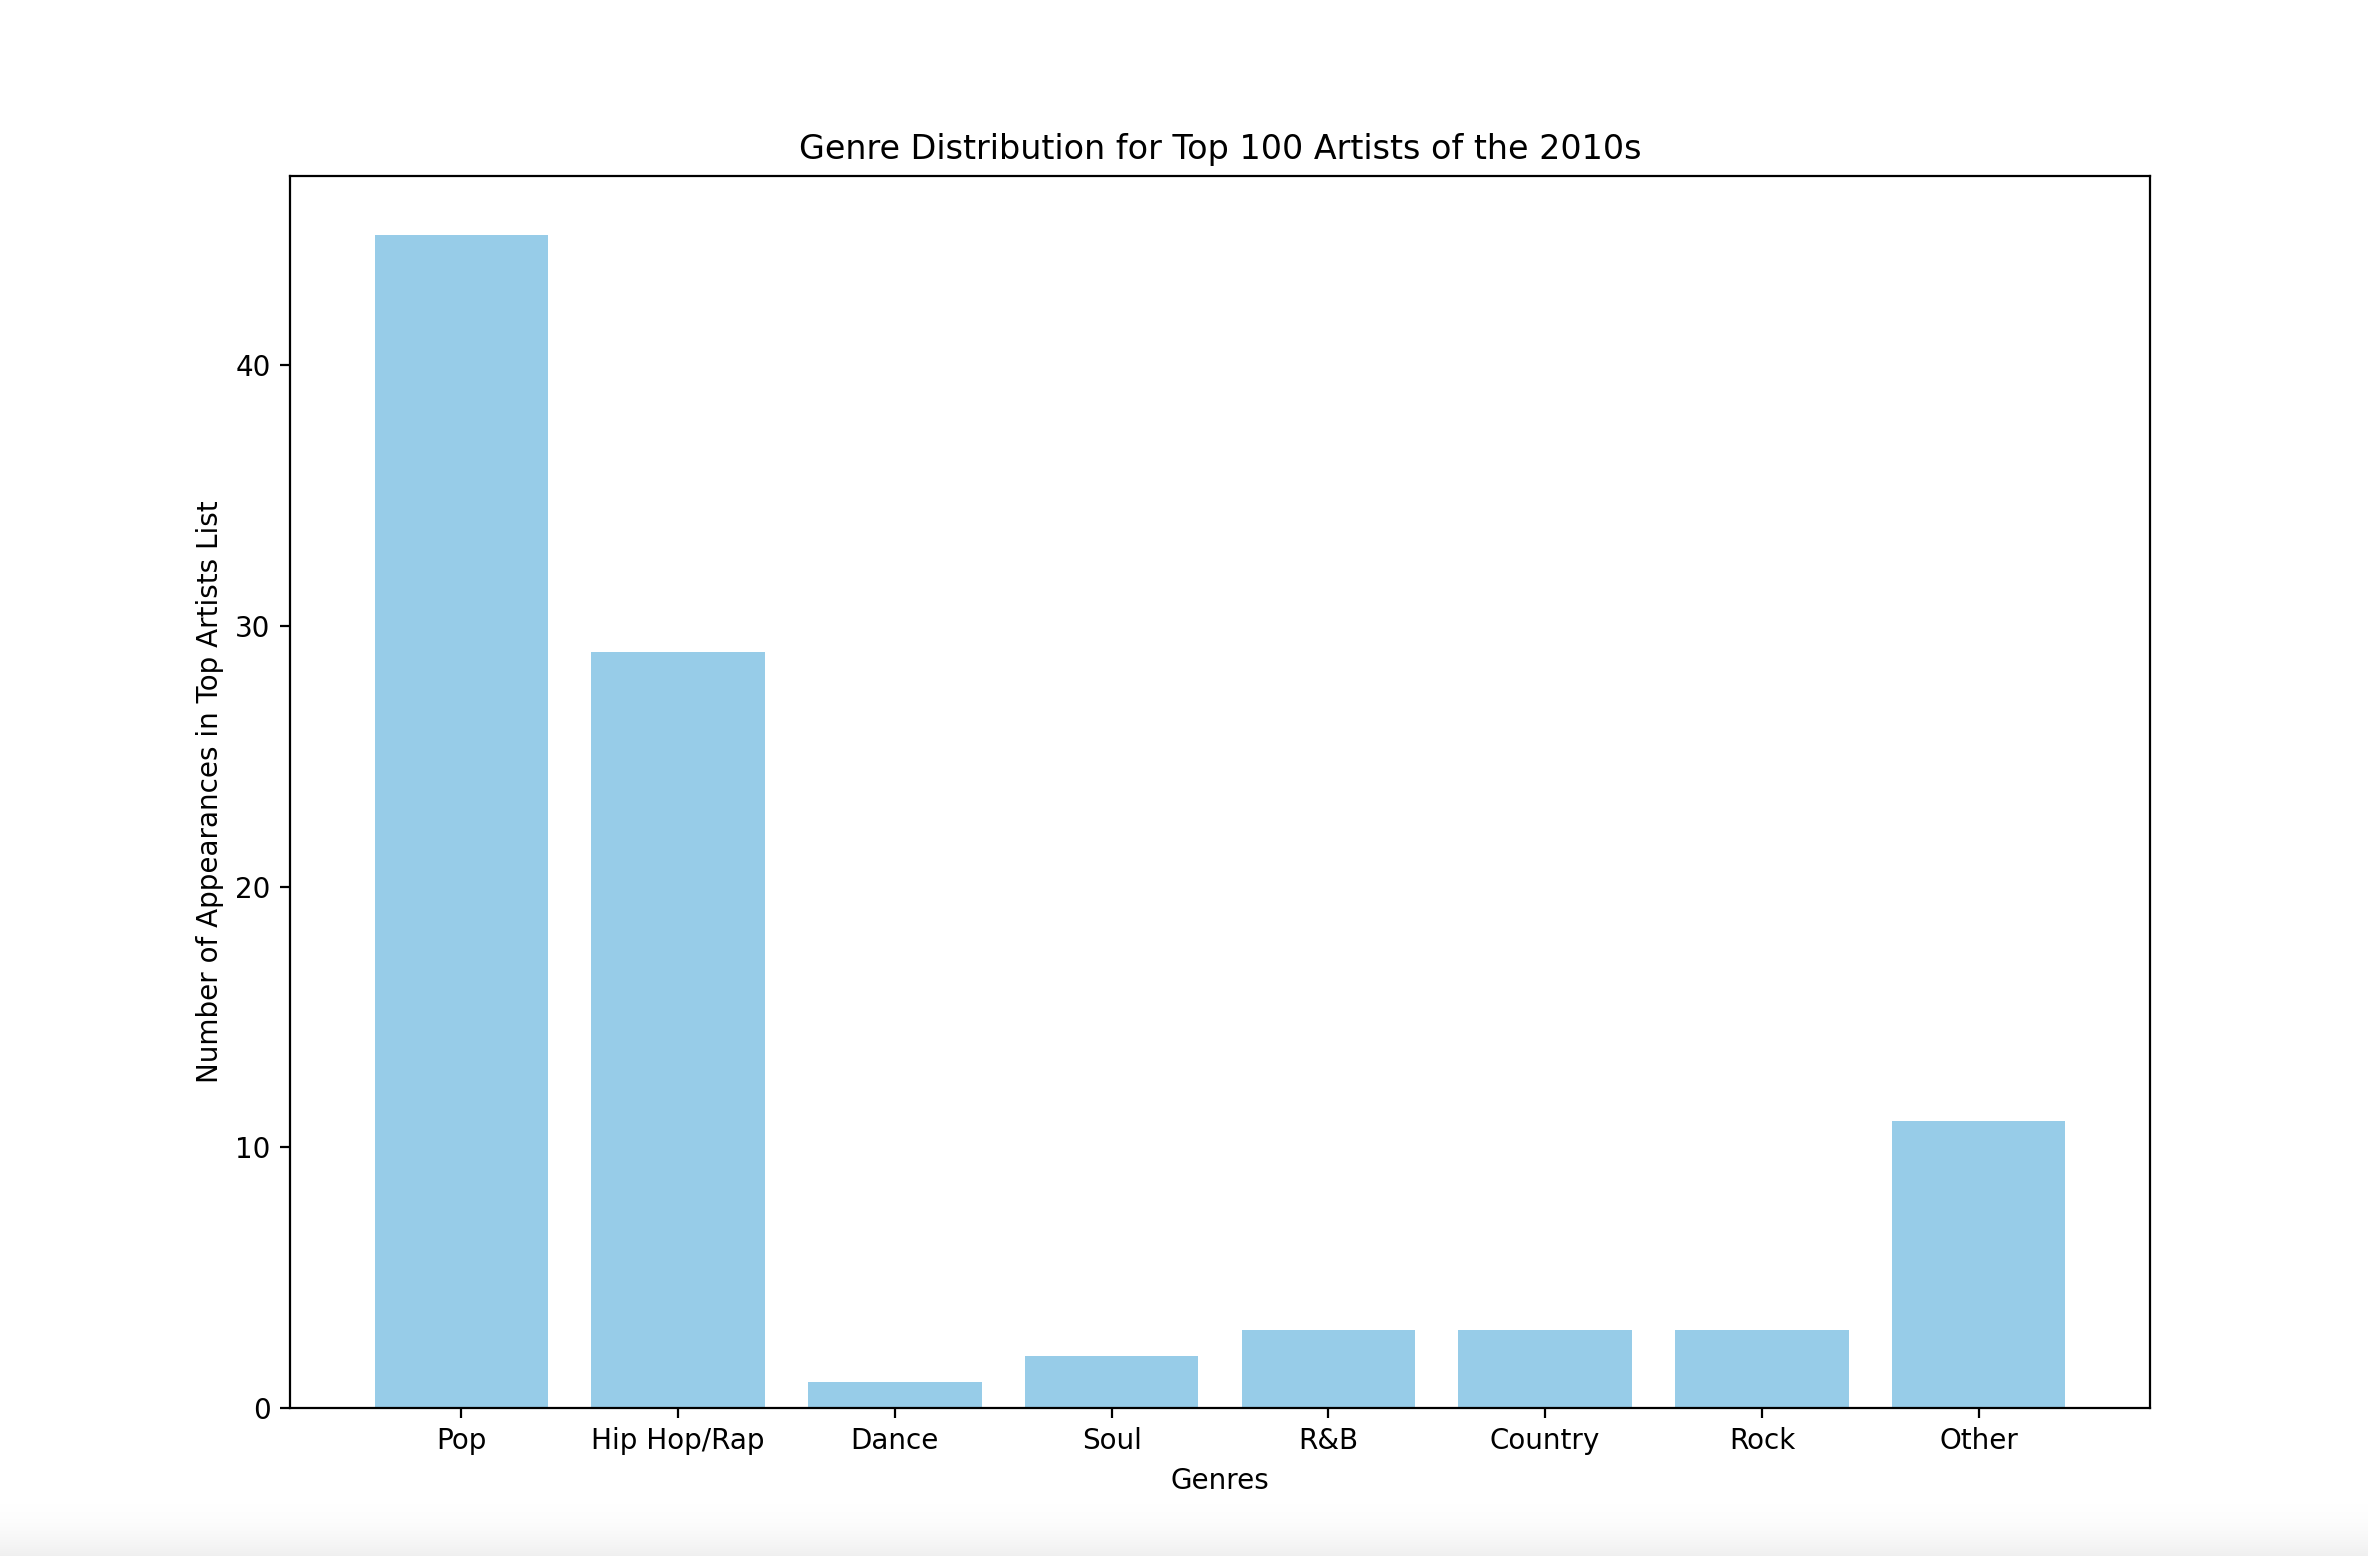
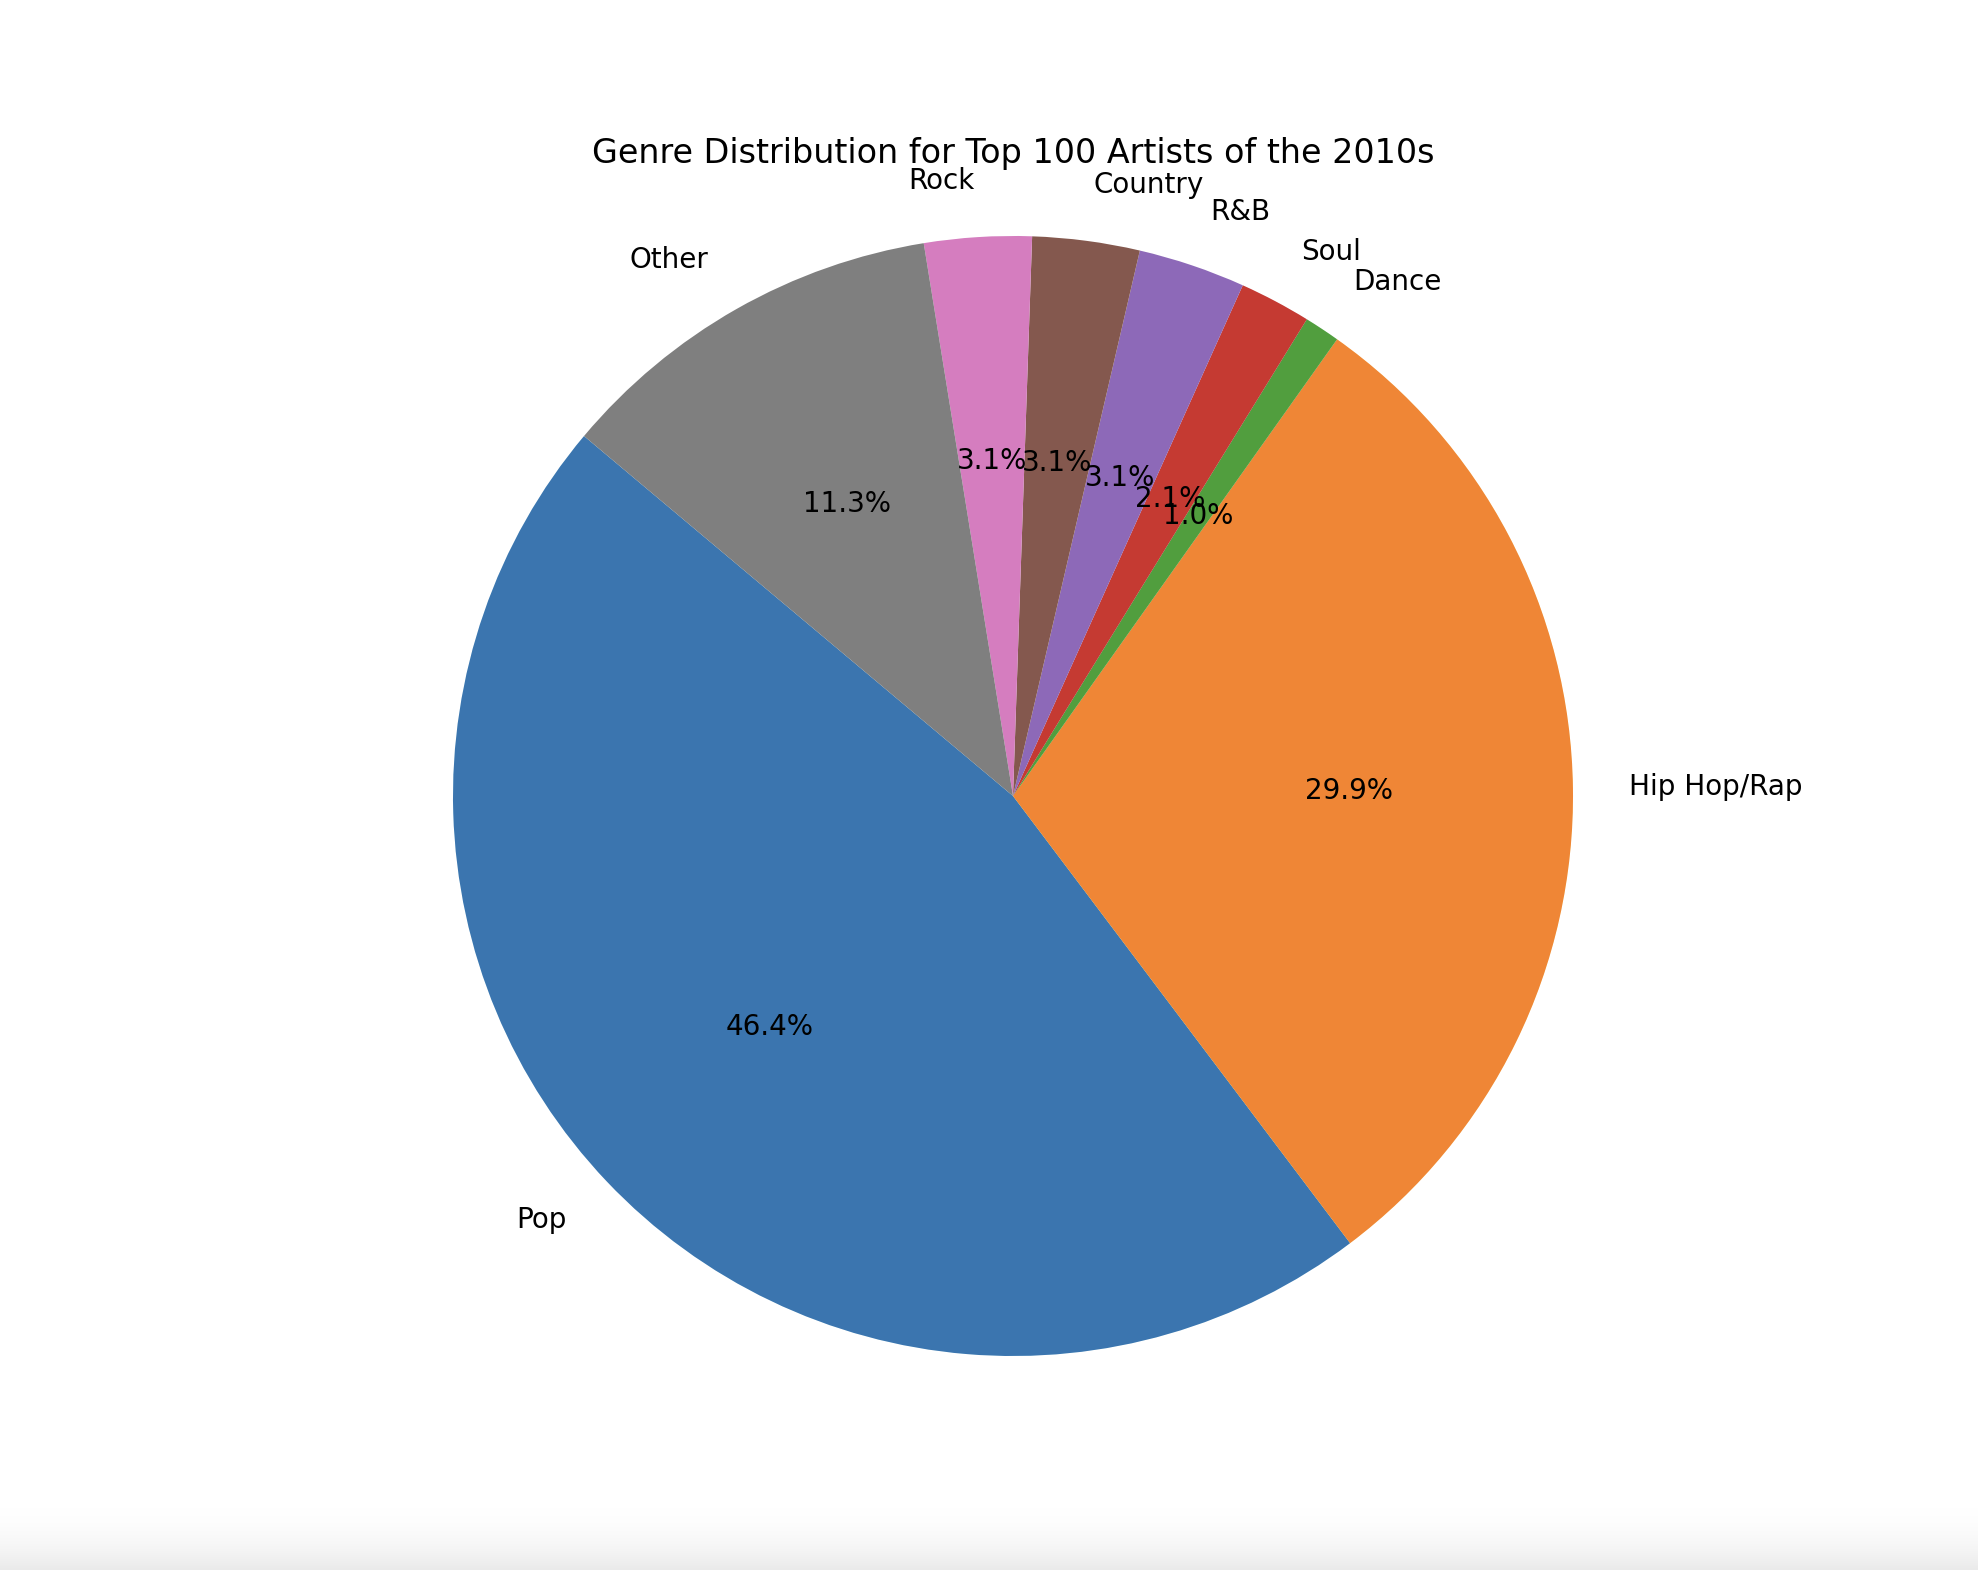
cya

diff --git a/visualizations.py b/visualizations.py
@@ -5,50 +5,49 @@ db_path = 'artists.db'
 conn = sqlite3.connect(db_path)
 cursor = conn.cursor()
 
-query = "SELECT genre, COUNT(*) as count FROM artists GROUP BY genre"
+query = """
+    SELECT g.genre, COUNT(*) as count 
+    FROM artists a
+    JOIN genres g ON a.genre_id = g.id 
+    GROUP BY g.genre
+"""
 cursor.execute(query)
 genre_data = cursor.fetchall()
 
-genres = [data[0] for data in genre_data]
-counts = [data[1] for data in genre_data]
+genres_dict = {'Pop': 0, 'Hip Hop/Rap': 0, 'Dance': 0, 'Soul': 0, 'R&B': 0, 'Country': 0, 'Rock': 0, 'Other': 0}
+for genre, count in genre_data:
+    if 'pop' in genre and 'rap' not in genre:
+        genres_dict['Pop'] += count
+    elif 'hip hop' in genre or 'rap' in genre:
+        genres_dict['Hip Hop/Rap'] += count
+    elif 'dance' in genre:
+        genres_dict['Dance'] += count
+    elif 'soul' in genre:
+        genres_dict['Soul'] += count
+    elif 'r&b' in genre:
+        genres_dict['R&B'] += count
+    elif 'country' in genre:
+        genres_dict['Country'] += count
+    elif 'rock' in genre:
+        genres_dict['Rock'] += count
+    else:
+        genres_dict['Other'] += count
 
-pop = 0
-hip_hop_rap = 0
-dance = 0
-soul = 0
-r_b = 0
-country = 0
-rock = 0
-other = 0
-for i in range(len(genres)):
-    if 'pop' in genres[i] and 'rap' not in genres[i]:
-        pop += counts[i]
-    elif 'hip hop' in genres[i] or 'rap' in genres[i]:
-        if 'pop' not in genres[i]:
-            hip_hop_rap += counts[i]
-    elif 'dance' in genres[i]:
-        dance += counts[i]
-    elif 'soul' in genres[i]:
-        soul += counts[i]
-    elif 'r&b' in genres[i]:
-        r_b += counts[i]
-    elif 'country' in genres[i]:
-        country += counts[i]
-    elif 'rock' in genres[i]:
-        rock += counts[i]
-    else: 
-        other += counts[i]
-genres = ['Pop', 'Hip Hop/Rap', 'Dance', 'Soul', 'R&B', 'Country', 'Rock', 'Other']
-counts = [pop, hip_hop_rap, dance, soul, r_b, country, rock, other]
+def output_genres_to_file():
+    with open('genre_counts.txt', 'w') as f:
+        for genre, count in genres_dict.items():
+            f.write(f"{genre}: {count}\n")
 
-# print(genres)
-# print('~~~~~~~~~~~~~~~~~~~~~~~~~')
-# print(counts)
+output_genres_to_file()
+
+genres = list(genres_dict.keys())
+counts = list(genres_dict.values())
 
 # chart 1
-plt.figure(figsize=(10, 8))
-plt.pie(counts, labels=genres, autopct='%1.1f%%', startangle=140)
-plt.axis('equal')
+plt.figure(figsize=(12, 8))
+plt.bar(genres, counts, color='skyblue')
+plt.xlabel('Genres')
+plt.ylabel('Number of Appearances in Top Artists List')
 plt.title('Genre Distribution for Top 100 Artists of the 2010s')
 plt.show()
 
@@ -73,11 +72,12 @@ plt.show()
 
 
 query = """
-    SELECT a.genre, COUNT(*) as count
+    SELECT g.genre, COUNT(*) as count
     FROM tracks AS t
-    JOIN artists AS a ON t.id = a.id
+    JOIN artists AS a ON t.artist_id = a.artist_id
+    JOIN genres AS g ON a.genre_id = g.id
     WHERE t.weeks_on_hot_100 > 0
-    GROUP BY a.genre
+    GROUP BY g.genre
     ORDER BY count DESC
     LIMIT 10
 """
@@ -86,7 +86,7 @@ genre_data = cursor.fetchall()
 
 conn.close()
 
-genres_3 = [data[0] if data[0] else "Unknown" for data in genre_data]
+genres_3 = [data[0] if data[0] else "unknown" for data in genre_data]
 counts_3 = [data[1] for data in genre_data]
 
 # chart 3
@@ -97,9 +97,8 @@ plt.title('Genre Frequency of Top Artists of the 2010s with Current Songs on Bil
 plt.show()
 
 # extra credit visualization
-plt.figure(figsize=(12, 8))
-plt.bar(genres, counts, color='skyblue')
-plt.xlabel('Genres')
-plt.ylabel('Number of Appearances in Top Artists List')
+plt.figure(figsize=(10, 8))
+plt.pie(counts, labels=genres, autopct='%1.1f%%', startangle=140)
+plt.axis('equal')
 plt.title('Genre Distribution for Top 100 Artists of the 2010s')
 plt.show()

diff --git a/load_data.py b/load_data.py
@@ -21,37 +21,70 @@ def load_data():
     cursor = conn.cursor()
 
     cursor.execute('''
-    CREATE TABLE IF NOT EXISTS artists (
+    CREATE TABLE IF NOT EXISTS genres (
         id INTEGER PRIMARY KEY AUTOINCREMENT,
-        name TEXT NOT NULL UNIQUE,
-        spotify_id TEXT NOT NULL UNIQUE,
-        genre TEXT
+        genre TEXT NOT NULL UNIQUE
     )
     ''')
 
-    cursor.execute('SELECT COUNT(*) FROM artists')
+    cursor.execute('''
+    CREATE TABLE IF NOT EXISTS artist_ids (
+        id INTEGER PRIMARY KEY AUTOINCREMENT,
+        name TEXT NOT NULL UNIQUE
+    )
+    ''')
+
+    cursor.execute('''
+    CREATE TABLE IF NOT EXISTS artists (
+        id INTEGER PRIMARY KEY AUTOINCREMENT,
+        artist_id INTEGER NOT NULL,
+        spotify_id TEXT UNIQUE,
+        genre_id INTEGER,
+        FOREIGN KEY (artist_id) REFERENCES artist_ids(id),
+        FOREIGN KEY (genre_id) REFERENCES genres(id)
+    )
+    ''')
+
+    def get_or_create_genre_id(genre):
+        cursor.execute('SELECT id FROM genres WHERE genre = ?', (genre,))
+        result = cursor.fetchone()
+        if result:
+            return result[0]
+        cursor.execute('INSERT INTO genres (genre) VALUES (?)', (genre,))
+        return cursor.lastrowid
+
+    def get_or_create_artist_id(name):
+        cursor.execute('SELECT id FROM artist_ids WHERE name = ?', (name,))
+        result = cursor.fetchone()
+        if result:
+            return result[0]
+        cursor.execute('INSERT INTO artist_ids (name) VALUES (?)', (name,))
+        return cursor.lastrowid
+
+    cursor.execute('SELECT COUNT(*) FROM artist_ids')
     number_of_artists_already_added = cursor.fetchone()[0]
     batch_size = 25
     start_index = number_of_artists_already_added
-    end_index = start_index + batch_size
+    end_index = min(start_index + batch_size, len(artist_names))
     next_batch = artist_names[start_index:end_index]
 
     for artist in next_batch:
+        artist_id = get_or_create_artist_id(artist)
         result = sp.search(q='artist:' + artist, type='artist')
         items = result['artists']['items']
         if items:
             spotify_id = items[0]['id']
             genres = items[0]['genres']
-            genre = genres[0] if genres else "unknown"
-            cursor.execute('INSERT OR IGNORE INTO artists (name, spotify_id, genre) VALUES (?, ?, ?)', (artist, spotify_id, genre))
-        else:
-            cursor.execute('INSERT OR IGNORE INTO artists (name) VALUES (?)', (artist,))
+            genre_id = get_or_create_genre_id(genres[0] if genres else "unknown")
+            cursor.execute('INSERT OR IGNORE INTO artists (artist_id, spotify_id, genre_id) VALUES (?, ?, ?)', (artist_id, spotify_id, genre_id))
+
     conn.commit()
 
     cursor.execute('SELECT * FROM artists')
     rows = cursor.fetchall()
     for row in rows:
         print(row)
+
     conn.close()
 
 load_data()

diff --git a/top_songs.py b/top_songs.py
@@ -8,24 +8,24 @@ client_secret = 'b28f081661b64fb592a3c63994614f65'
 def get_artists_without_tracks(conn):
     cursor = conn.cursor()
     cursor.execute('''
-        SELECT id, name, spotify_id FROM artists 
-        WHERE id NOT IN (SELECT DISTINCT id FROM tracks)
-        ORDER BY id LIMIT 12
+        SELECT artist_id, spotify_id FROM artists 
+        WHERE artist_id NOT IN (SELECT DISTINCT artist_id FROM tracks)
+        ORDER BY artist_id LIMIT 12
     ''')
     return cursor.fetchall()
 
 def add_top_tracks_to_db(conn, spotify):
     artists = get_artists_without_tracks(conn)
     cursor = conn.cursor()
-    for artist_id, artist_name, spotify_id in artists:
+    for artist_id, spotify_id in artists:
         top_tracks = spotify.artist_top_tracks(spotify_id, country='US')['tracks'][:2]
         for index, track in enumerate(top_tracks, start=1):
             track_id = f"{artist_id}.{index}"
             track_name = track['name']
             cursor.execute('''
-                INSERT INTO tracks (id, name, track_id, track_name) 
-                VALUES (?, ?, ?, ?)
-            ''', (artist_id, artist_name, track_id, track_name))
+                INSERT INTO tracks (artist_id, track_id, track_name) 
+                VALUES (?, ?, ?)
+            ''', (artist_id, track_id, track_name))
     conn.commit()
 
 def main():
@@ -33,8 +33,8 @@ def main():
     cursor = conn.cursor()
     cursor.execute('''
         CREATE TABLE IF NOT EXISTS tracks (
-            id INTEGER, name TEXT, track_id TEXT, track_name TEXT,
-            FOREIGN KEY (id) REFERENCES artists (id)
+            artist_id INTEGER, track_id TEXT, track_name TEXT,
+            FOREIGN KEY (artist_id) REFERENCES artist_ids (id)
         )
     ''')
     conn.commit()
